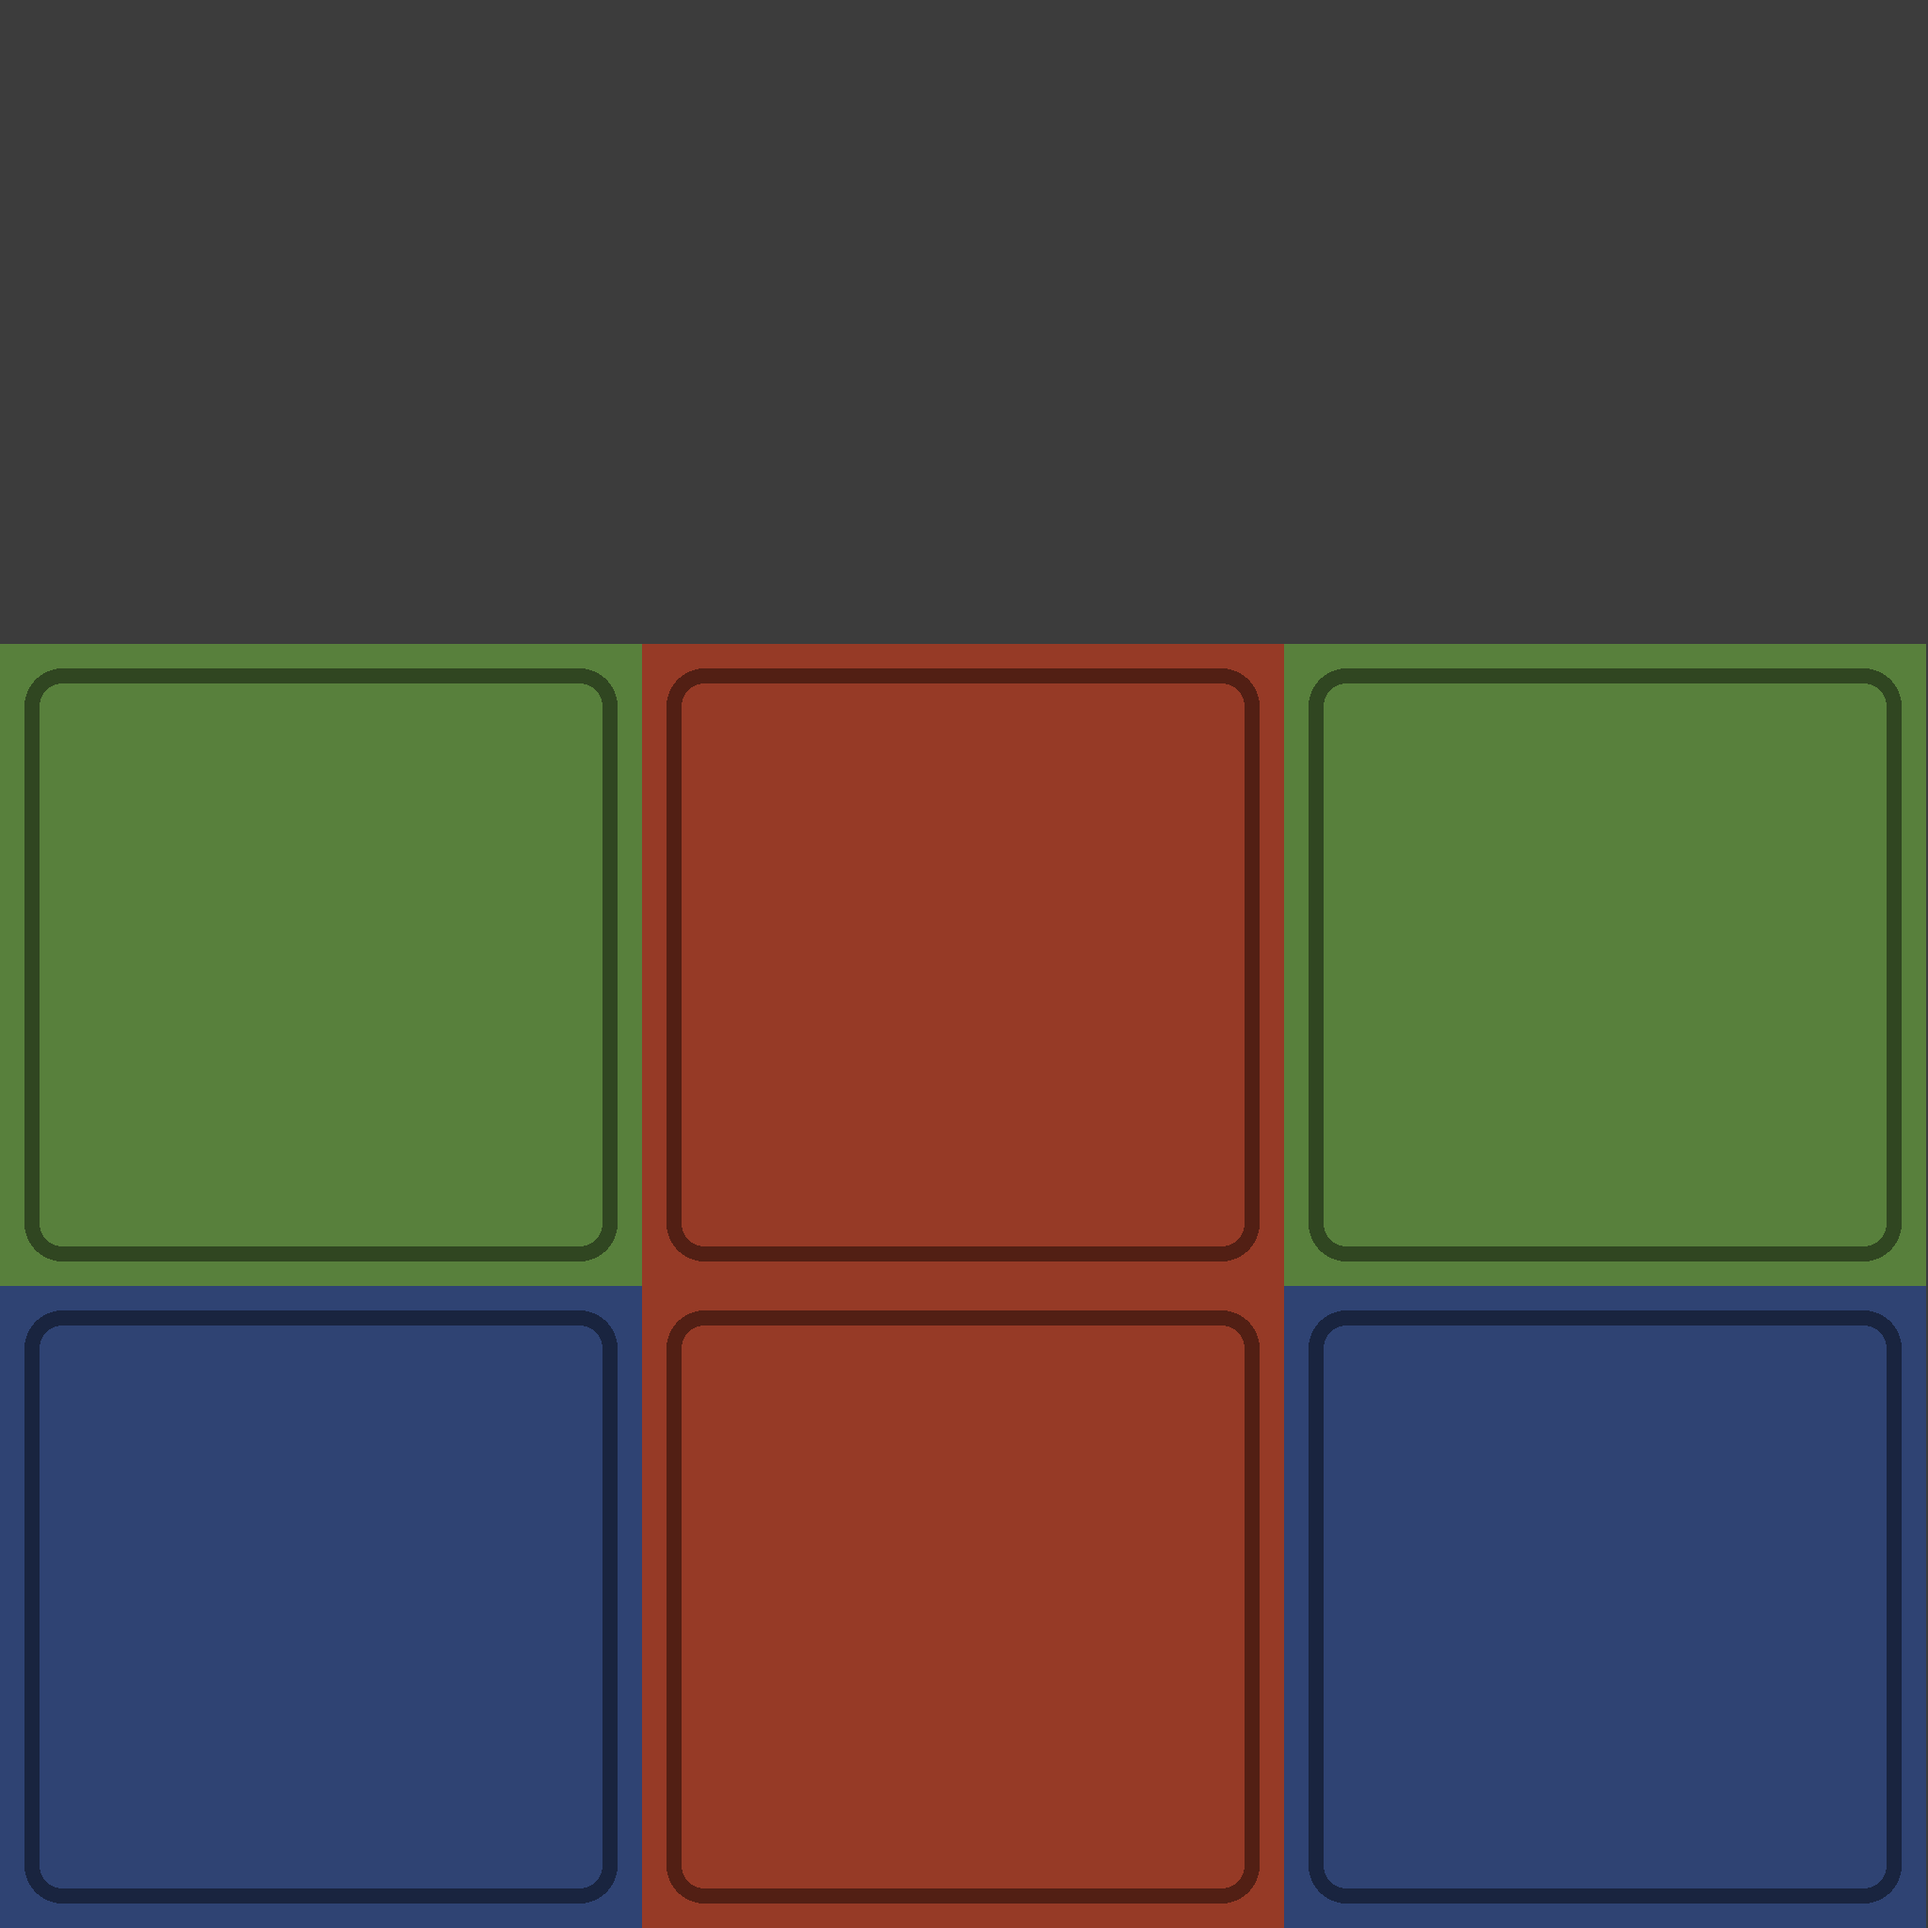
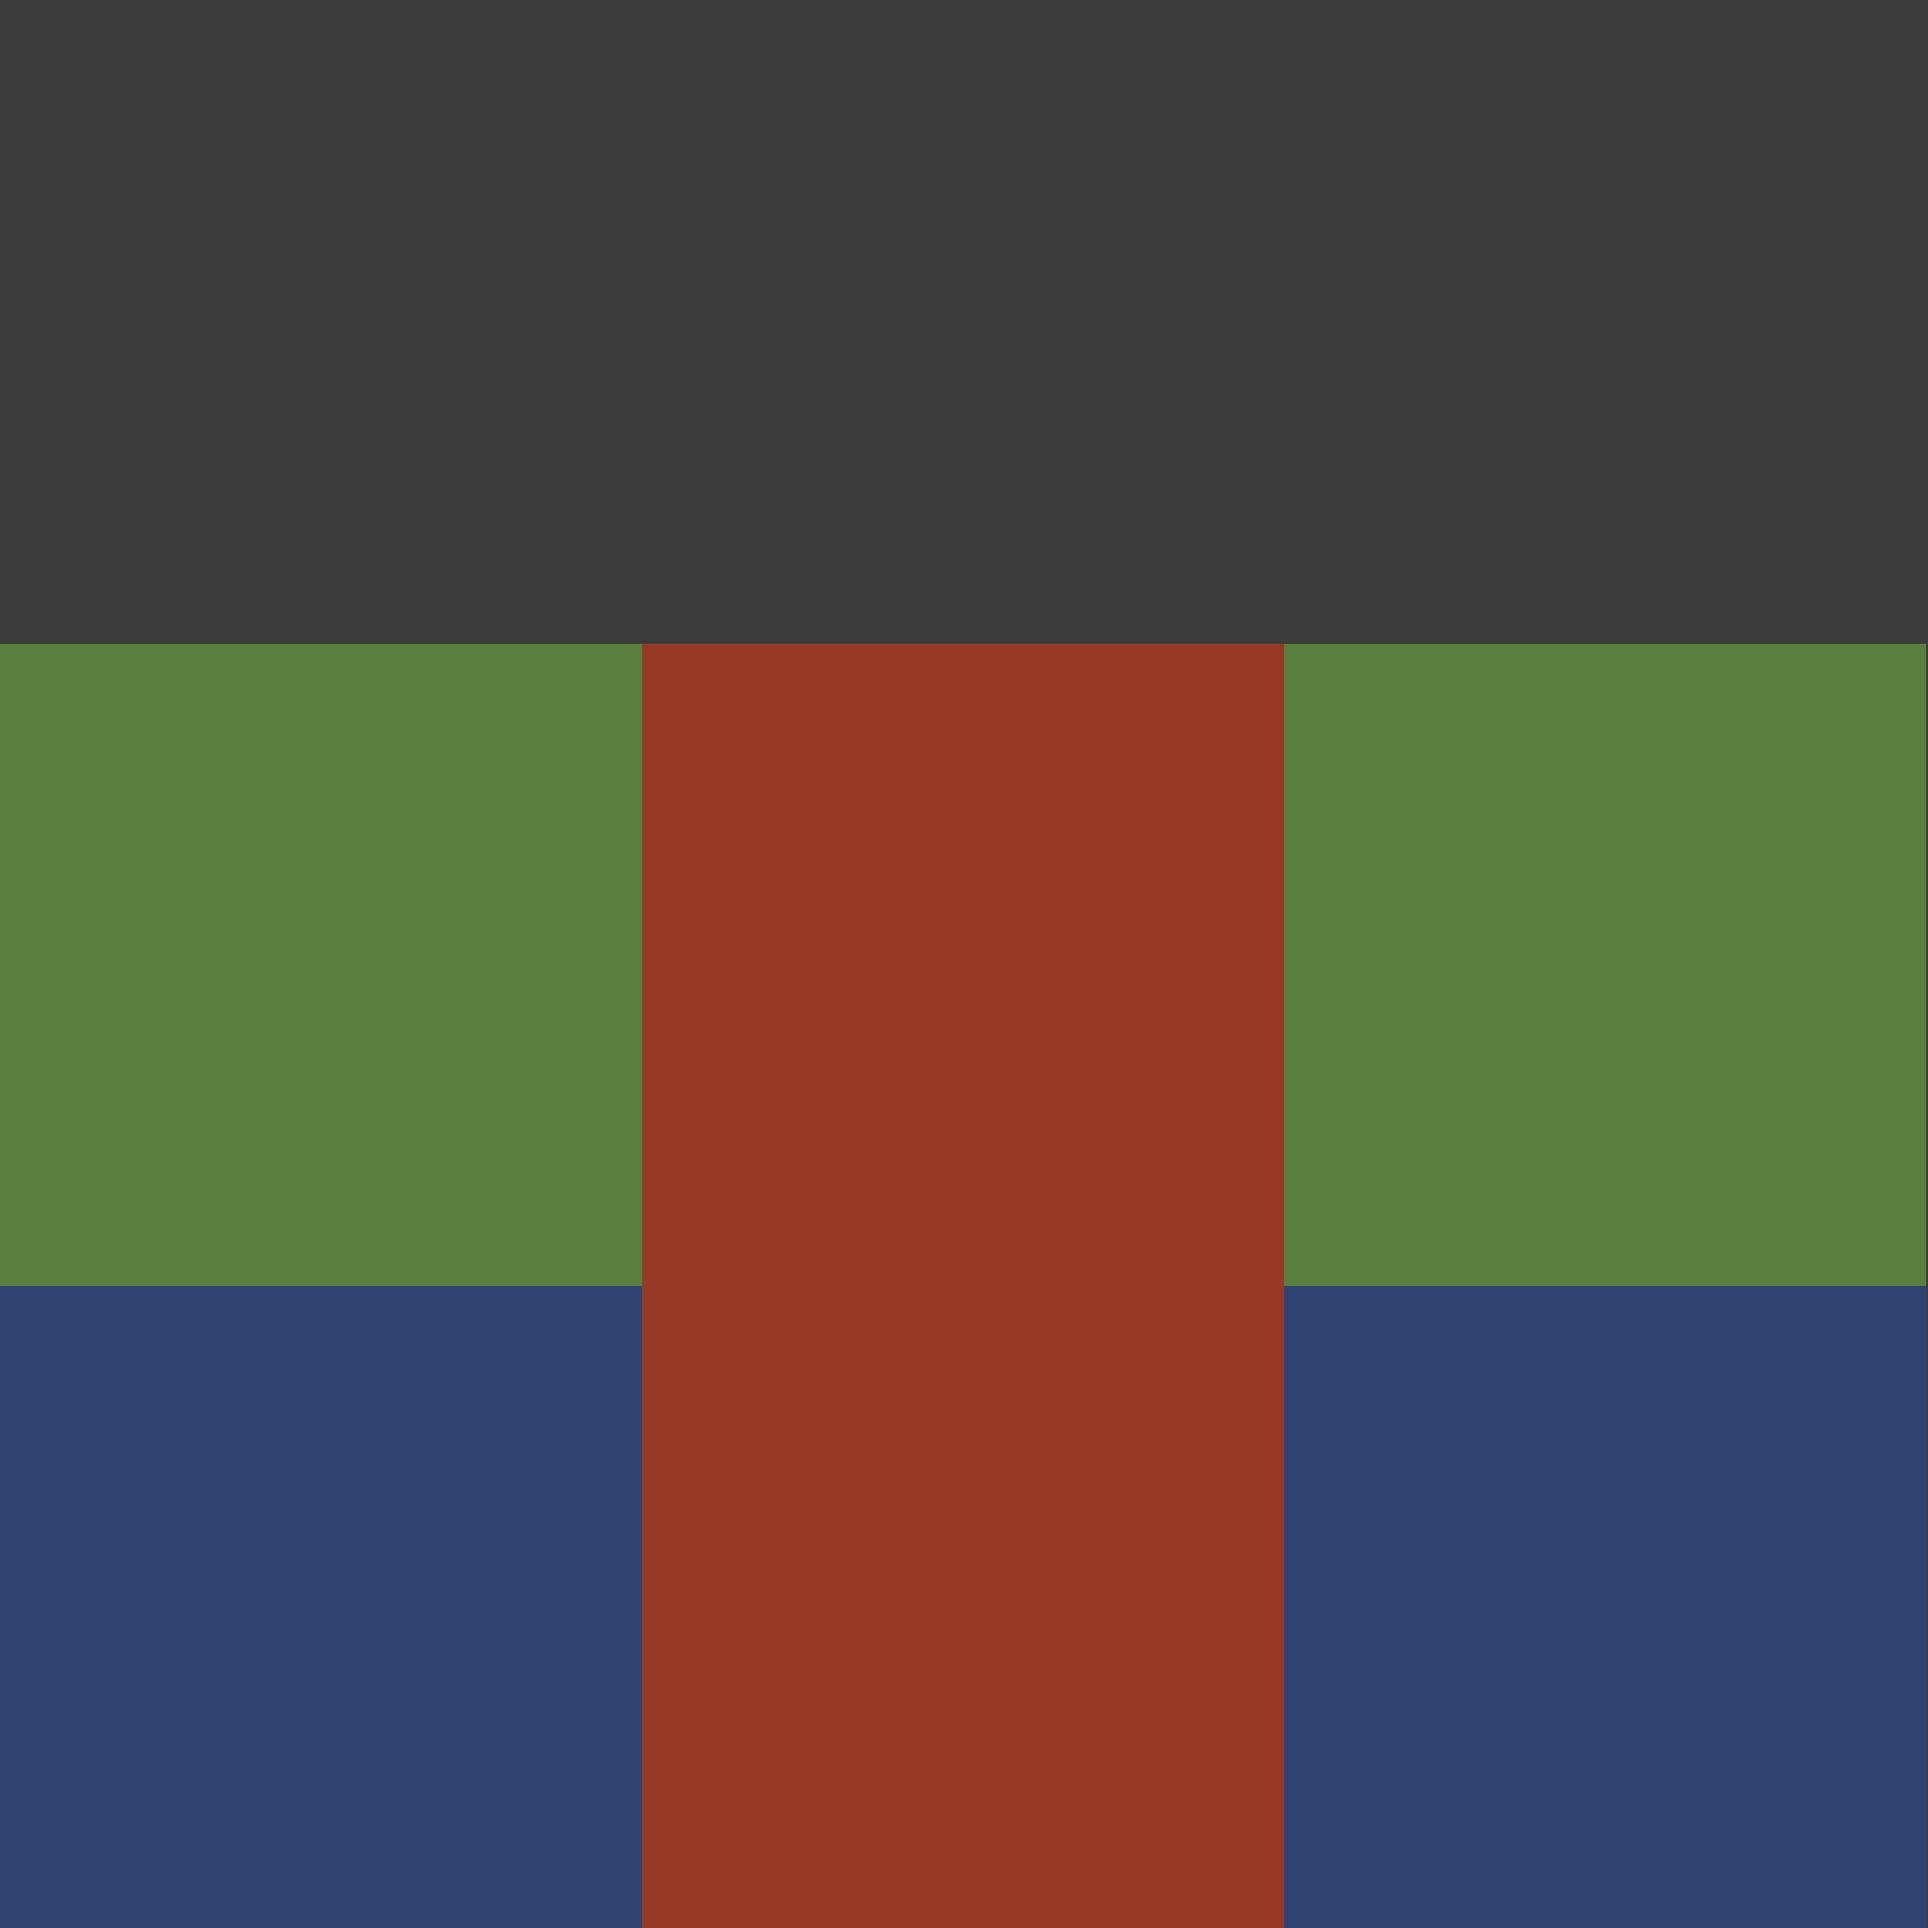
v3.20 : dés des zones et sec / gras sans cadre
Claude-Session: https://claude.ai/code/session_01G5suCDEz1h6n5LuZQsei1c

Changed region(s): [[0.0, 0.3438, 1.0, 1.0], [0.6875, 0.6875, 1.0, 1.0], [0.0, 0.6875, 0.3125, 1.0]]

diff --git a/src/de_custom.py b/src/de_custom.py
@@ -1,6 +1,6 @@
 # Dés de couleur et de peau en Custom Dice TTS (gabarit D6 : 2048², 3 colonnes x 2 rangées dans le bas,
 # rangée 1 = faces 2, 4, 5 ; rangée 2 = faces 1, 3, 6, les faces 1 et 6 tournées de 180°).
-# Faces opposées : 1-6, 2-5, 3-4. Sec / Gras en IM Fell English italique (non gras), comme sur les tuiles.
+# Faces opposées : 1-6, 2-5, 3-4. Faces sans cadre. Sec / Gras en IM Fell English italique (non gras), comme sur les tuiles.
 import sys
 from PIL import Image, ImageDraw, ImageFont
 R, FONT = sys.argv[1], sys.argv[2]
@@ -8,7 +8,6 @@ C = 2048//3; F = ImageFont.truetype(FONT, 130)
 ZC = {'bleu': (47, 67, 115), 'vert': (88, 128, 60), 'rouge': (150, 58, 38)}; PARCH = (234, 218, 182); FOND_GRAS = (232, 213, 168); OR = (201, 149, 43); INK = (42, 24, 10)
 def face(col, gras=None, bord=None):
     t = Image.new('RGB', (C, C), col); d = ImageDraw.Draw(t)
-    d.rounded_rectangle((26, 26, C-27, C-27), radius=40, outline=bord or tuple(int(v*.55) for v in col), width=16)
     if gras is None: return t
     cx, cy = C/2, C/2-70; rx, ry = 120, 160
     d.line((cx, cy-ry-45, cx, cy+ry+45), fill=INK, width=18); d.line((cx-rx-50, cy, cx+rx+50, cy), fill=INK, width=18)
